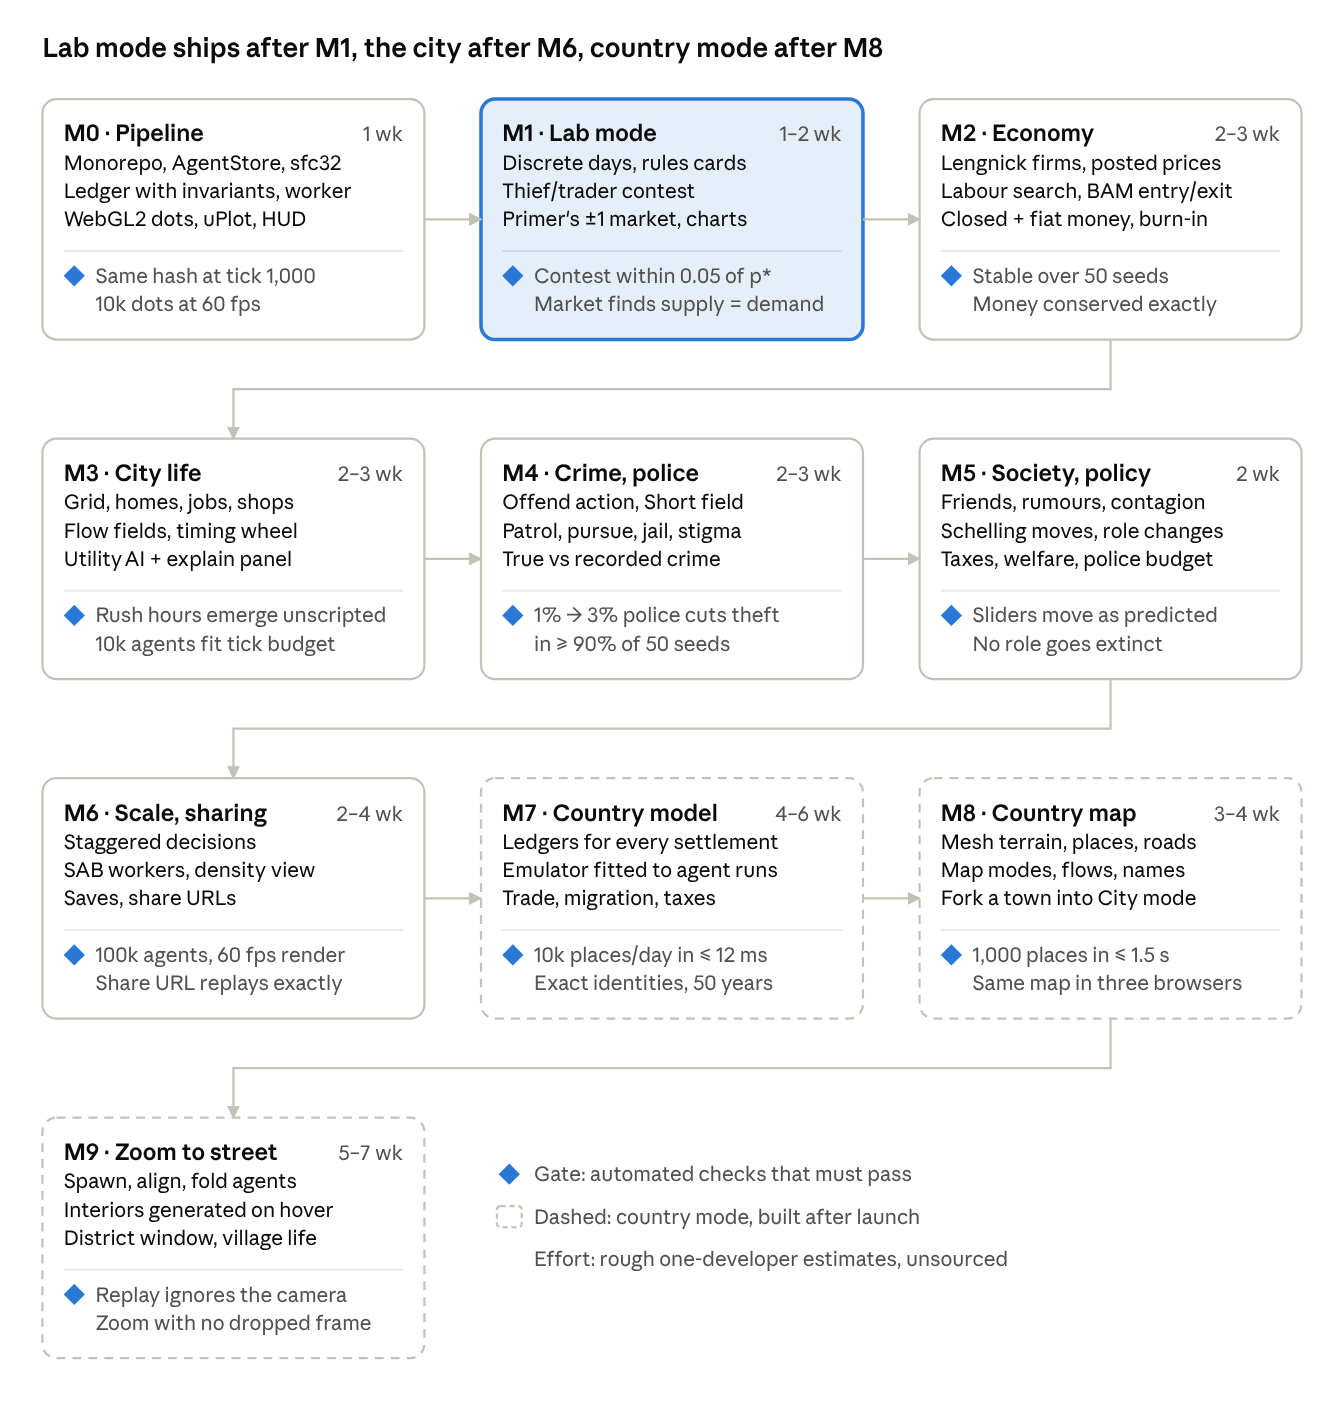
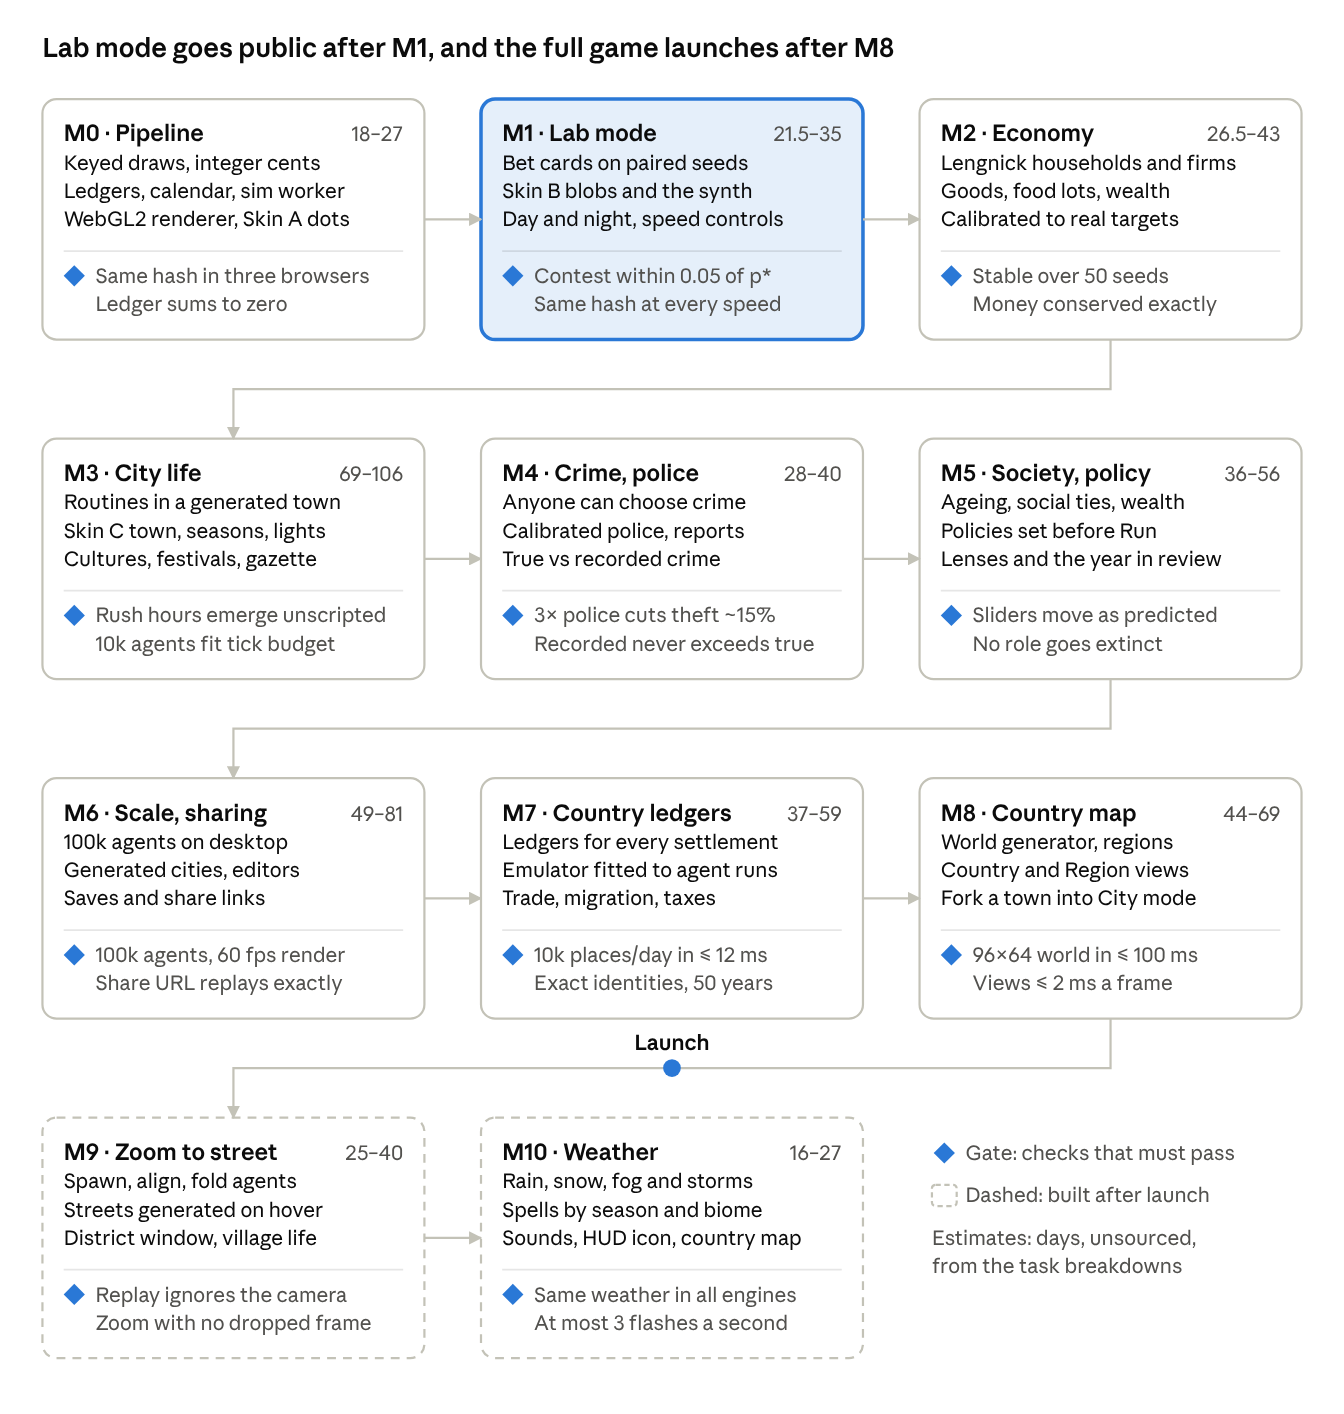
docs(plan): sync the implementation plan from the doc

diff --git a/docs/plan/implementation-plan.md b/docs/plan/implementation-plan.md
@@ -12,13 +12,13 @@ Work top to bottom: each milestone lists what to build and the checks that close
 
 ## Roadmap
 
-![build order · 10 milestones, 3 after launch](images/roadmap.png)
+![build order · 11 milestones, launch after M8](images/roadmap.png)
 
-The drawing is round 1's seven milestones plus round 4's three country milestones, dashed because they come after launch; the sections below add each round's tasks without changing the order.
+The drawing shows all eleven milestones in build order: round 1's seven, round 4's three country milestones and the owner's M10. Its estimates come from the repo's task breakdowns, which estimate every task. The sections below add each round's tasks without changing the order.
 
 Round 9 moves launch after M8: M7 and M8 become pre-launch milestones and M9 stays after launch, so the drawing's launch line now falls after M8 (R9).
 
-The owner added M10 Weather on 8 October 2026. It follows M9 after launch, and the drawing has no box for it yet (Weather).
+The owner added M10 Weather on 8 October 2026. It follows M9 after launch (Weather).
 
 ## Visual styles
 
@@ -189,8 +189,8 @@ Goal: Primer-style lab cards in discrete days, drawn as Skin B blobs, with claim
 - [ ] Write the discrete-day engine with the thief/trader contest, Primer's ±1 market and animated day phases (R1).
 - [ ] Turn rules cards into bet cards that lock in a prediction before Run; hand-pick and label first seeds; use neutral names; unlock city sliders through lab cards (R2).
 - [ ] Tag every claim as an estimate, per-seed property or comparison: comparisons on 50 paired seeds per arm (Holds at p < 0.01 and A ≥ 0.64, Fails only if significantly reversed, otherwise Inconclusive), Wald's sequential test for properties, equivalence bands for estimates, nightly fresh seeds (R2).
-- [ ] Draw the blob sheet on 16×24 cells: south, north and west (east mirrored), idle, walk, sneak and carry frames, sit, sleep, cheer and wince, eight Primer face overlays, the navy police cap with badge, the teal merchant apron and headband, and four neutral citizen items (R3).
-- [ ] Draw the first 16×16 bubbles ("!", "?", coin, "Zz", bread), with Kenney's CC0 emotes as placeholders (R3).
+- [ ] Draw the blob sheet on an 18×22 canvas: stand and walk frames in four views, sit in three and sneak in two, six faces, the navy police cap with badge, a teal headband and sash for merchants, and builder, clinic, farmer and soldier job items; the carry and cheer frames are still to draw (R3).
+- [x] Draw the first bubbles as original 12×12 art: "!", "?", coin, "Zz" and bread, plus heart and sweat, so Kenney's CC0 emotes are not needed (R3).
 - [ ] Add the sprite pass: atlas cells from outfit, direction and frame; facing and walk frame from interpolated velocity; depth-test y-sorting; face overlays; staggered blinks (R3).
 - [ ] Add the bubble pass: one bubble per agent, four to six on screen, priority justice > crime > economy > needs > mood, overflow to a ticker and a log line per bubble (R3).
 - [ ] Stage Skin B on the flat zone map: up to 40 agents and at most four protagonists with Primer-style wallet and hunger bars that ride with the sprite; link charts to the animation (R1, R3).
@@ -204,7 +204,7 @@ Goal: Primer-style lab cards in discrete days, drawn as Skin B blobs, with claim
 - [ ] Allow scripted event timing only as logged inputs on lab and scenario cards, never as a state-driven director in the sim core (R6).
 - [ ] Add a bet card, "Evening events: are people out at night stopped more?", on paired seeds, framed by place and hour, never by culture. In the toy, evening festivals raised victimisation 8.7% and stops 1.3% against daytime ones, while the rate per outdoor hour stayed the same (R8).
 - [ ] Add speed controls: pause, 1×, 4×, 16× and skip to the next season or year, with Space and keys 1–4, per-tier speed caps, and a paused start under reduced motion (Calendar).
-- [ ] Show the date, time, light period, day type, season icon and year progress in the HUD, such as "Spring 12, Year 3 · 08:40 · morning · rest day" (Calendar).
+- [ ] Show the date, time, light period, day type, season icon and year progress in the HUD, such as "Spring 12, Year 3 · 08:40 · morning · workday" (Calendar).
 - [ ] Add five light periods from the sunrise table as a calendar function: dawn and dusk span 30 minutes either side of sunrise and sunset, morning runs to noon, afternoon from noon to dusk, and night the rest. The renderer tints only the ground, never people, with fades of at least 2 s and a tint-off toggle, and lab days take the periods with their phases (R3, Calendar).
 - [ ] Make runs watch-only: while a run plays, the worker accepts only pause, speed, skip and read-only queries, and lab cards set treatments before Run (Calendar).
 - [ ] Load the audio chunk after the first frame and start the audio context on the first click. Add master, music, ambience, effects and UI buses with ducking, `M` to mute, three sliders saved per device and never in share links, and a classroom mode that starts muted (Sound).
@@ -261,8 +261,8 @@ Goal: Lengnick's household–firm economy, calibrated to measured targets and li
 
 **Exit checks**
 
-- [ ] Over 50 seeds × 20k ticks: no NaN, exact money conservation, and household saving that averages zero under fixed money (R1, R2).
-- [ ] Known-answer tests pass: random exchange gives Gini ≈ 0.5, saving half gives ≈ 0.27, and Godley–Lavoie SIM goes 38.44 → 47.9 (R1).
+- [ ] Over 50 seeds × 20,000 sim days: no NaN, exact money conservation, and household saving that averages zero under fixed money (R1, R2).
+- [ ] Known-answer tests pass: random exchange gives Gini ≈ 0.5, saving half gives ≈ 0.27, and Godley–Lavoie SIM goes 38.46 → 47.9 (R1).
 - [ ] The economy targets hold: prices change in 9–12% of months, about 2% of job-stayers see a pay cut a year, about 26% of the unemployed find work each month, plus the BAM bands and the Mark-0 phase table (R2).
 - [ ] Every economy event maps to exactly one glyph across bubble, log, chart marker and legend, and price-chart ticks coincide with purchase bubbles in a replay (R3).
 - [ ] Spawn then fold returns the record exactly, in people and cents, for 1,000 random records, and the same (seed, record, time) gives a byte-identical city in Node, Bun and Deno (R4).
@@ -283,7 +283,7 @@ Goal: daily routines in a real town, drawn as the Skin C pixel-art town from one
 - [ ] Put homes, jobs and shops on a 128²–256² grid with flow fields, a timing wheel, needs plus utility scoring plus a state machine, and Huff shop choice (R1).
 - [ ] Build the inspector with a click-to-explain panel showing the top three scored actions (R1).
 - [ ] Optional: idle back-off, shop hours shifted by travel time, day plans made at dawn and one global witness pass (R2).
-- [ ] Re-download Ninja Adventure from its canonical page, confirm the CC0 text, drop culturally specific tiles and re-index to a 32-colour master palette (R3).
+- [ ] Use Ninja Adventure only as placeholders: re-download it from its canonical page, confirm the CC0 text and drop culturally specific tiles. The original sprites, on the sprite rules' master palette of at most 64 colours, replace round 3's 32-colour re-index (R3, R9).
 - [ ] Set up the LDtk project: IntGrid values for wall, water, road, sidewalk, grass and door; auto-layer rules; a roof and treetop layer; entities for homes, shops, workplaces and the market with capacity, owner and opening hours (R3).
 - [ ] Make the 256×256 default town a fixed seed of the place generator, with apartment blocks, house rows, shop rows, a market square and a park, hand-edited in the developer Build mode; hand-authoring it in LDtk is the fallback if the port slips (R3, R9).
 - [ ] Add the tile pass (a tile-index texture read with `texelFetch`, animated tiles) and the roof pass drawn over people (R3).
@@ -323,7 +323,7 @@ Goal: daily routines in a real town, drawn as the Skin C pixel-art town from one
 - [ ] Generate personal names in the UI from (seed, id, birth culture), from one shared invented sound set, with naming customs setting the structure: no gendered forms, no diacritics, site words kept separate. Show names only in the inspector and follow-cam (R8).
 - [ ] Add a name filter for people, places and festivals: distinctive Pokémon town and city names and species names (edit distance 1 up to 5 letters, 2 above), the "poke" and "-mon" bans, LDNOOBW Latin-script lists (exact for 3-letter entries, substring for 4+), real festival names and the real-world fixture (R8).
 - [ ] Screen the shared sound set at authoring time by trigram similarity to real name bases (below 0.26 pass, 0.26–0.40 review, above 0.40 fail) (R8).
-- [ ] Use one shared set of festival decorations, never in national-flag colours or the six body hues, and the culture emblems drafted in `assets/sprites/culture.png` on the unmerged `feat/pixel-sprites` branch. Banner and lens colours also avoid the job colours and the reds and oranges kept for crime (R8).
+- [ ] Use one shared set of festival decorations, never in national-flag colours or the six body hues, and the culture emblems in `assets/sprites/culture.png`. Banner and lens colours also avoid the job colours and the reds and oranges kept for crime (R8).
 - [ ] Port `place.py` to TypeScript, with plan-then-apply shore tidying, 64×64 districts, frontage lot packing and entity export (R9).
 - [ ] Build the minimal developer-flag Build mode as a lazy chunk, in 8–12 days: `WorldRenderer.patchTiles` over 32×32 chunks; terrain brush, rectangle and fill, with a 3-tile minimum land brush; prefab stamps; cell-diff undo; save and load in a versioned container; and a Play hand-off to the worker (R9).
 - [ ] Draw the two shore saddle keys (`1001`, `0110`) for both shores: 4 frames, or 8 with variants. Then the corner set is complete and tidying can drop its diagonal clause (R9).
@@ -334,7 +334,8 @@ Goal: daily routines in a real town, drawn as the Skin C pixel-art town from one
 - [ ] Play ambience by biome, time of day and season, crossfaded at dawn and dusk with the town's light periods (Sound).
 - [ ] Add the music player: title, lab, town day and town night, one track at a time with crossfades and variations keyed on (world seed, place, day). Music loads as its own chunk when first needed (Sound).
 - [ ] Play festival music in one of the four styles, which differ only in tempo, loudness and structure; culture music never plays in justice views (Sound).
-- [ ] Add the town gazette: one edition per settlement each dawn, built only from the record store at the day boundary, with town, market and calendar stories in plain templates, no personal names, and a HUD panel with back issues by date (Gazette).
+- [ ] Build the record store the gazette reads: append-only records, written only at the day boundary and read only through its read API; M4's justice records and M5's year-end edition extend it (Gazette).
+- [ ] Add the town gazette: one edition per settlement each morning at 06:00, built only from the record store at the day boundary, with town, market and calendar stories in plain templates, no personal names, and a HUD panel with back issues by date (Gazette).
 - [ ] Draw the gazette button icon at 16 and 8 px and the paper panel frame (Gazette).
 
 **Exit checks**
@@ -406,7 +407,7 @@ Goal: crime as an action any agent can take, calibrated policing, and the true-v
 - [ ] Audio audit: outside festival music, no sound parameter differs by hue, look, culture, wealth decile or offender status in the recorded view, and a wrongful stop matches an arrest in length and loudness (Sound).
 - [ ] No code path sends soldiers into a town to keep order; town stops and arrests come only from the police (Military).
 - [ ] Over 50 paired seeds, the gazette's justice counts equal the recorded counts, never the true ones (Gazette).
-- [ ] No justice story carries a name, culture, look or wealth term, and the culture flip test leaves every gazette story outside festivals unchanged (Gazette).
+- [ ] No justice story carries a name, culture, look or wealth term, a wrongful stop and an arrest get the same priority, and the culture flip test leaves every gazette story outside festivals unchanged (Gazette).
 
 ## M5 Society and policy
 
@@ -459,7 +460,7 @@ Goal: the social layer and policy sliders, set before Run and each with a predic
 - [ ] Without policy changes, wealth drift over 50 years stays within 0.03 Gini and 3 points of top-10% share; the wealth-tax Gini check runs from a spawned near-stationary state (R6).
 - [ ] The age pyramid stays within its band, no culture's festivals cluster in one season, and a branch replays identically from (seed, settings, fork day, change) (Calendar).
 - [ ] Recruitment and postings never read culture, region, looks or wealth, and the appearance and culture audits cover soldiers (Military).
-- [ ] The follow-the-news camera is off by default and never changes the state hash (Gazette).
+- [ ] The follow-the-news camera is off by default and never changes the state hash, and the year-end edition never breaks figures down by culture (Gazette).
 
 ## M6 Scale and sharing
 
@@ -473,12 +474,12 @@ Goal: 100k agents on desktop, share links that replay in any browser, and a clea
 - [ ] Extend the Canvas2D fallback to all three skins (R3).
 - [ ] Add saves and share URLs that encode seed, config, skin, zoom and camera, and replay identically across browsers (R1, R2, R3).
 - [ ] Prepare the launch kit: playable with no signup, a 1200×600 preview card per scenario drawn in Skin C with blobs and alt text, a share text that carries a bet, translation-ready text files (R2, R3).
-- [ ] Put the "What this toy leaves out" page live at launch, including why every agent looks the same (R2, R3).
+- [ ] Put the "What this toy leaves out" page live at launch, including why everyone shares one blob body and a random look that no sim rule reads (R2, R3, R8, R9).
 - [ ] Write ODD+D with purpose and patterns first, keep a TRACE notebook and submit to CoMSES (R2).
 - [ ] Ship THIRD\_PARTY\_NOTICES and an in-app credits screen covering every asset, and describe the look as "GBA-era top-down pixel art" in all launch copy (R2, R3).
 - [ ] Optional: LLM narration of a clicked agent, called rarely and asynchronously, with a deterministic fallback and every output logged (R1, R2).
 - [ ] Add country sections to the save format (settlement and route ledgers, regions and markets, per-settlement edit diffs, the notables cache, multi-resolution history, generator versions), gzipped with `CompressionStream` into OPFS or IndexedDB, and extend share URLs with `mode=country`, the world seed, generator versions and the focus log (R4).
-- [ ] Parameterise the city generator by a context record (tier, population, route-entry bearings, river, coast, biome, port, crossroads, walls) and seed it with hash(worldSeed, settlementId, generatorVersion) (R4).
+- [ ] Parameterise the city generator by a context record (tier, population, route-entry bearings, river, coast, biome, port and crossroads, without walls), and seed it by the world seed and the settlement's stable cell id, never by the generator version (R4, R9).
 - [ ] Port the exact neighbour query and the settlement model to Rust compiled to WASM SIMD, with raw pointer exports and no wasm-bindgen, keeping integer JS fallbacks (R5).
 - [ ] Run workers only when `crossOriginIsolated` is true and a phase carries at least 0.5 ms: fixed 1,024-agent chunks, chunk-ordered reductions, a spin of at most 50 µs before `Atomics.wait`, and at most min(hardwareConcurrency − 2, 3) helpers (R5).
 - [ ] Add a hand-written service worker for offline starts, and a `_headers` file with immutable caching for hashed assets plus COOP/COEP (R5).
@@ -543,6 +544,7 @@ Goal: every settlement in a country advances daily as an integer ledger, headles
 - [ ] Derive settlement demand shifts as Σ share × Δβ, recomputed only when counts change (R8).
 - [ ] Fit the culture hazards from M3–M5 agent runs and dock them on held-out runs, as round 4 does for other flows (R8).
 - [ ] Run the 50–100-year spin-up (5,600–11,200 days) and country skip-ahead in 112-day years (Calendar).
+- [ ] Build the route ledgers that patrols need and M8 draws: traffic, bandit pressure, patrols, and true and recorded incidents on each route (R4, Military).
 - [ ] Add garrison posts to settlement ledgers and give each route ledger a patrol intensity from nearby garrisons and the defence budget. Raids fall as patrols rise, true and recorded raids stay apart, and records follow reports and sightings (Military).
 
 **Exit checks**
@@ -570,7 +572,7 @@ Goal: country mode ships, with a generated, seeded map, Country and Region views
 
 - [ ] Build the terrain stage in the worker as the TypeScript port of tools/worldgen on a square grid, not a Voronoi mesh: template plus noise elevation, keyed mountain chains, priority-flood, flow accumulation, erosion-lite passes, climate, biomes and habitability, each stage proven against Python golden fingerprints and ported in pipeline order (R4, R9).
 - [ ] Place settlements on the mesh, capitals then towns then villages, with minimum spacing and P₁/k sizes (R4).
-- [ ] Build routes as Delaunay → spanning tree → spanner, routed by A\* with slope, bridge and road-reuse costs and sea lanes where no land path exists; add multi-source Dijkstra regions and market territories (R4).
+- [ ] Build routes as a spanning tree per landmass plus spanner shortcuts, routed by A\* with slope, bridge and road-reuse costs, with sea lanes where no land path exists; the Python reference generator skips round 4's Delaunay step. Add multi-source Dijkstra regions and market territories (R4, R9).
 - [ ] Add names: a seeded foswig chain on an original corpus, site suffixes, and a CI filter against Pokémon place names (a test fixture only) and a profanity list (R4).
 - [ ] Draw the Country and Region levels: the mesh in a small palette-quantised framebuffer or an 8-px tilemap, settlement icons and routes by tier, label bands by zoom (R4).
 - [ ] Implement map modes as (state, entity) → {base, stripe}: true crime as base and recorded as stripe, plus population, growth, clearance, police, prices, wages, trade and danger (R4).
